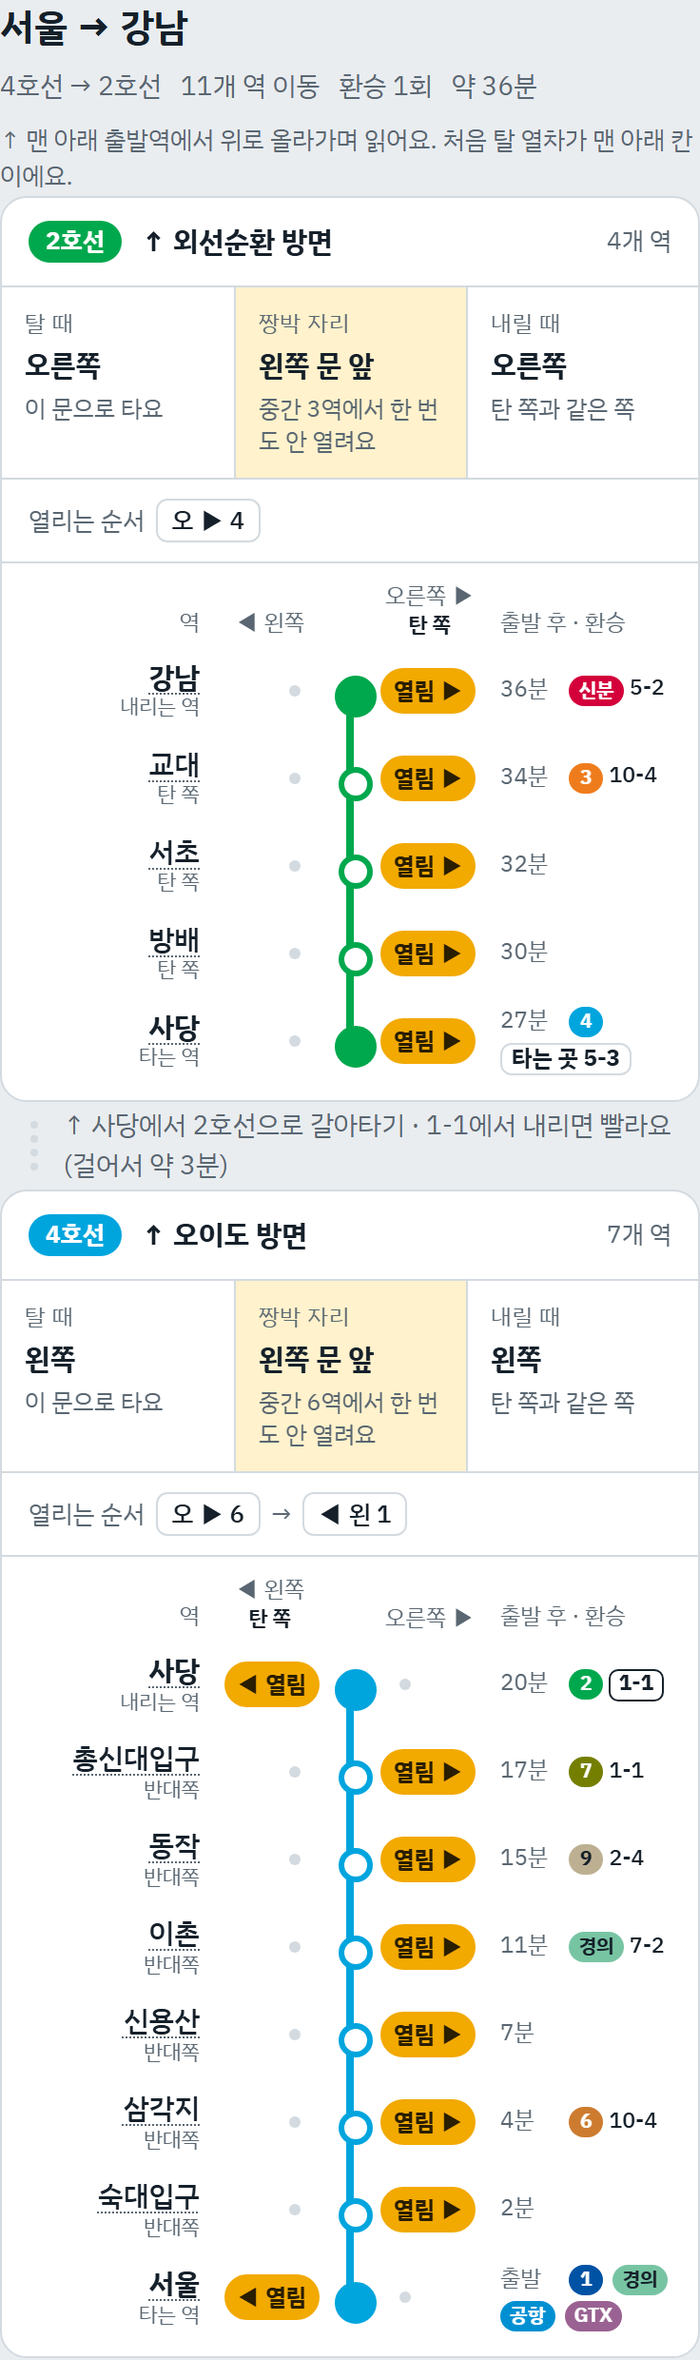
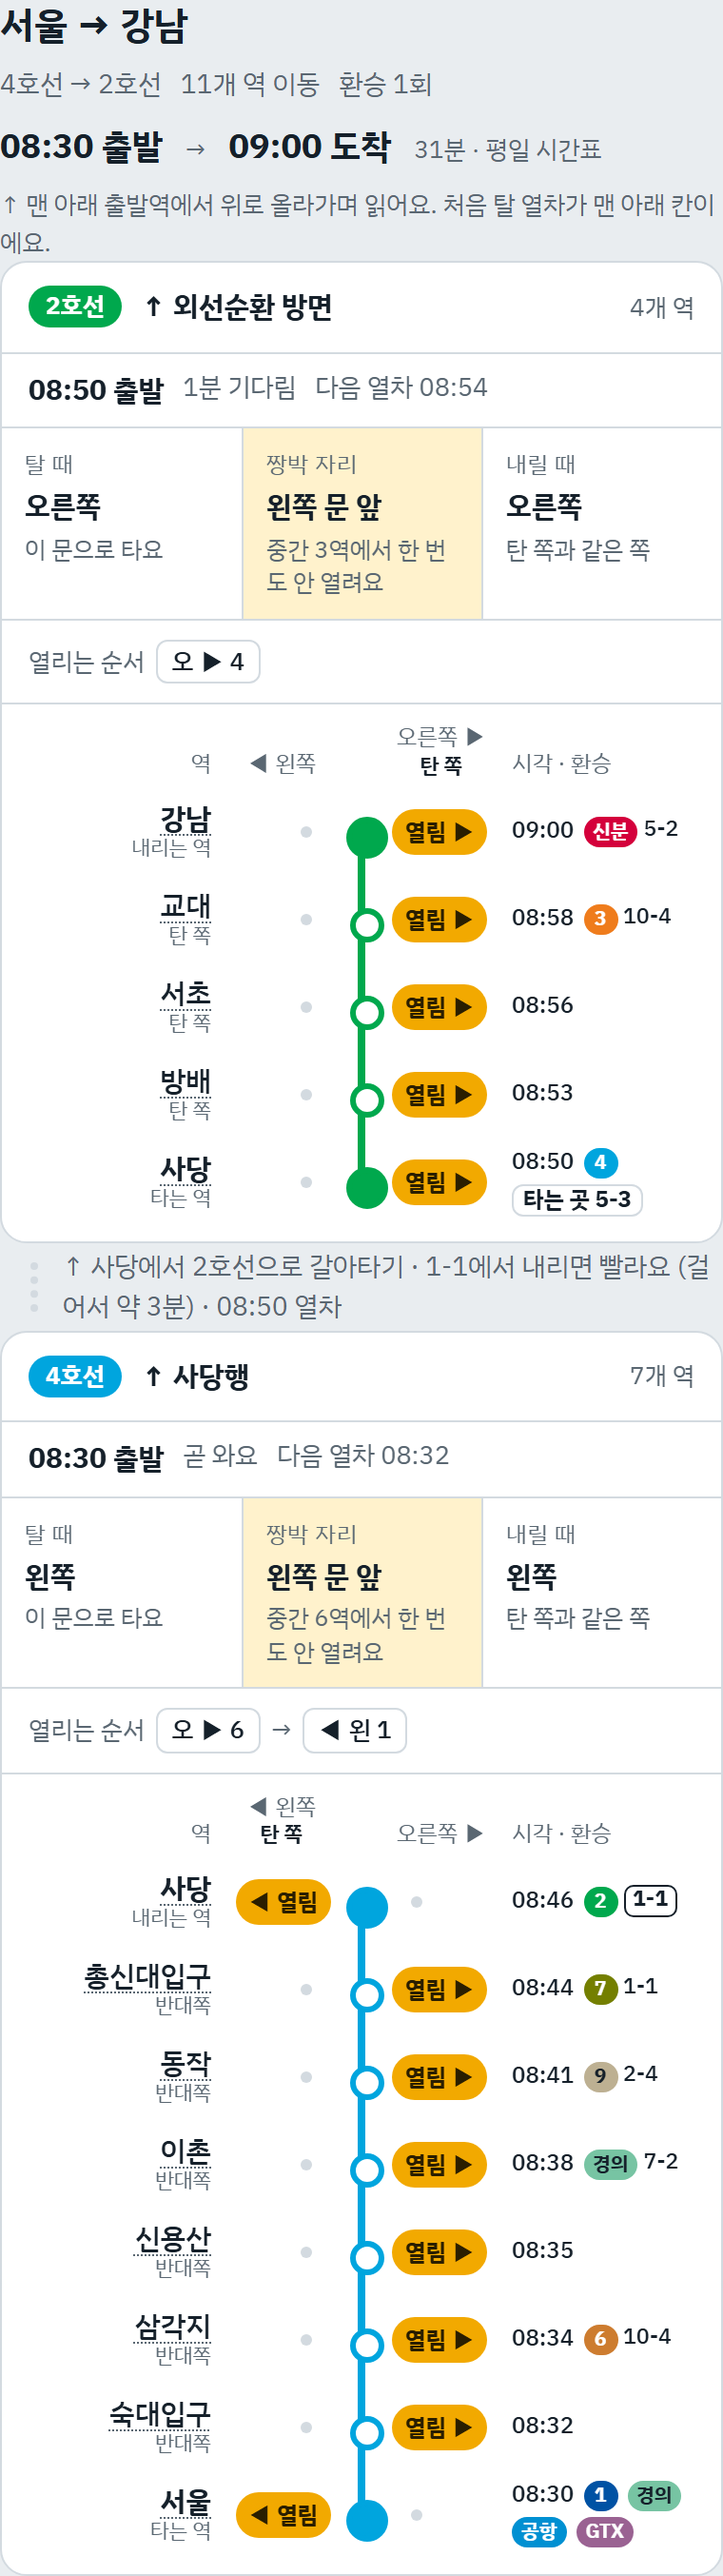
짱박이 소개 글 그림 2장을 18판 공개판 화면으로 교체

diff --git a/README.md b/README.md
@@ -4,6 +4,6 @@
 
 - `payroll-check-12/`: 급여 검산이 안 맞을 때 먼저 볼 12곳(2026년 기준, 모든 숫자는 가상 직원 예)
 - `bai-payroll-findings/`: 공공기관 인건비 감사원 지적 사례 9가지(건수는 공개 감사보고서를 필자가 분류한 근사치)
-- `zzangbak-door/`: 수도권 지하철 문 방향 도구 '짱박이' 소개(서울역 → 강남 경로 예시 화면)
+- `zzangbak-door/`: 수도권 지하철 문 방향 도구 '짱박이' 소개(서울역 → 강남 경로 예시 화면, 18판 평일 08:30 출발)
 
 글이 이 주소의 그림을 연결하고 있으니, 파일을 지우거나 옮기면 글의 그림이 깨집니다.
